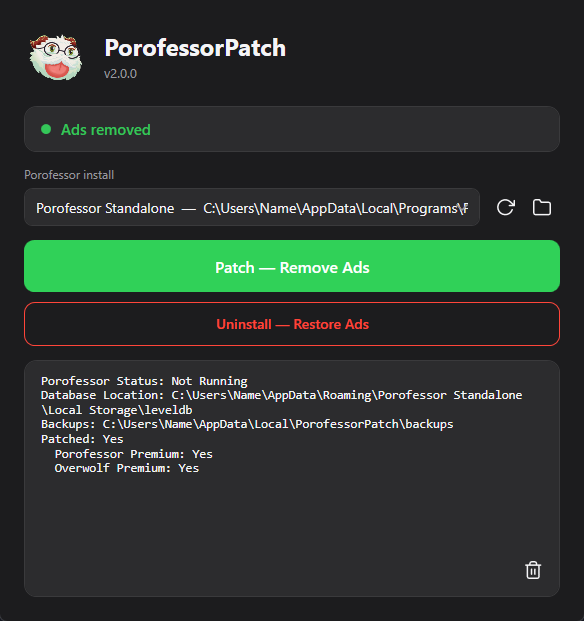
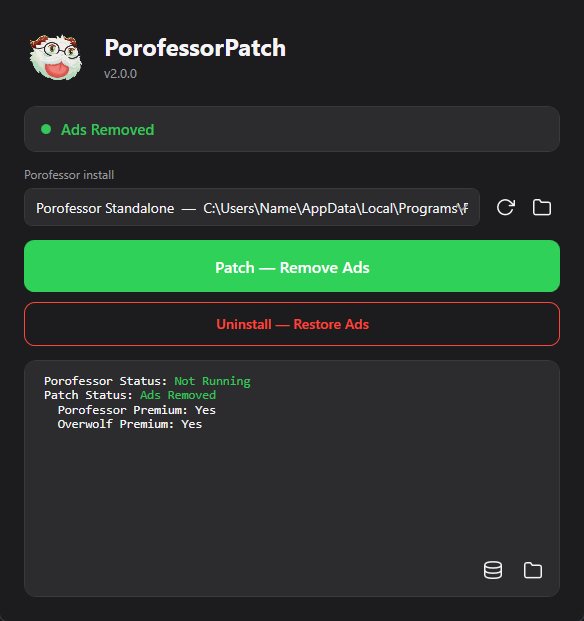
Polish status panel and add folder shortcuts
Show 'Ads Removed'/'Ads Present' and 'Unknown' while Porofessor is running; replace the database/backup text with open-folder buttons; store backups beside the executable; document the .NET Framework 4.8 runtime requirement.

diff --git a/src/PorofessorPatch/MainWindow.xaml b/src/PorofessorPatch/MainWindow.xaml
@@ -15,7 +15,7 @@
         <!-- Feather-style icon geometries (24x24 stroke icons) -->
         <Geometry x:Key="RefreshGeometry">M 23 4 L 23 10 L 17 10 M 20.49 15 A 9 9 0 1 1 18.37 5.64 L 23 10</Geometry>
         <Geometry x:Key="FolderGeometry">M 22 19 A 2 2 0 0 1 20 21 H 4 A 2 2 0 0 1 2 19 V 5 A 2 2 0 0 1 4 3 H 9 L 11 6 H 20 A 2 2 0 0 1 22 8 Z</Geometry>
-        <Geometry x:Key="TrashGeometry">M 3 6 L 5 6 L 21 6 M 19 6 V 20 A 2 2 0 0 1 17 22 H 7 A 2 2 0 0 1 5 20 V 6 M 8 6 V 4 A 2 2 0 0 1 10 2 H 14 A 2 2 0 0 1 16 4 V 6 M 10 11 L 10 17 M 14 11 L 14 17</Geometry>
+        <Geometry x:Key="DatabaseGeometry">M 4 7 C 4 5 7 4 12 4 C 17 4 20 5 20 7 L 20 17 C 20 19 17 20 12 20 C 7 20 4 19 4 17 Z M 4 7 C 4 9 7 10 12 10 C 17 10 20 9 20 7 M 4 12 C 4 14 7 15 12 15 C 17 15 20 14 20 12</Geometry>
         <Geometry x:Key="ChevronGeometry">M 6 9 L 12 15 L 18 9</Geometry>
 
         <!-- Primary action (solid accent) -->
@@ -266,20 +266,28 @@
                     Content="Uninstall — Restore Ads" Click="Restore_Click" />
         </StackPanel>
 
-        <!-- Log / details -->
+        <!-- Status / details -->
         <Border Grid.Row="4" Background="{DynamicResource CardBg}" BorderBrush="{DynamicResource CardBorder}"
                 BorderThickness="1" CornerRadius="12">
             <Grid>
-                <TextBox x:Name="LogBox" IsReadOnly="True" TextWrapping="Wrap" VerticalScrollBarVisibility="Auto"
-                         Background="Transparent" BorderThickness="0" FontFamily="Consolas" FontSize="12.5"
-                         Foreground="{DynamicResource TextPrimary}" Padding="14,12,14,44" />
-                <Button x:Name="ClearButton" Style="{StaticResource IconButton}"
-                        ToolTip="Clear logs" HorizontalAlignment="Right" VerticalAlignment="Bottom"
-                        Margin="0,0,8,8" Click="ClearLogs_Click">
-                    <Path Data="{StaticResource TrashGeometry}" Width="18" Height="18" Stretch="Uniform"
-                          Stroke="{Binding Foreground, RelativeSource={RelativeSource AncestorType=Button}}"
-                          StrokeThickness="1.5" StrokeStartLineCap="Round" StrokeEndLineCap="Round" StrokeLineJoin="Round" />
-                </Button>
+                <RichTextBox x:Name="LogBox" IsReadOnly="True" VerticalScrollBarVisibility="Auto"
+                             Background="Transparent" BorderThickness="0"
+                             Foreground="{DynamicResource TextPrimary}" Padding="14,12,14,44" />
+                <StackPanel Orientation="Horizontal" HorizontalAlignment="Right" VerticalAlignment="Bottom"
+                            Margin="0,0,8,8">
+                    <Button x:Name="OpenDatabaseButton" Style="{StaticResource IconButton}"
+                            ToolTip="Open database location" Click="OpenDatabase_Click" Margin="0,0,4,0">
+                        <Path Data="{StaticResource DatabaseGeometry}" Width="18" Height="18" Stretch="Uniform"
+                              Stroke="{Binding Foreground, RelativeSource={RelativeSource AncestorType=Button}}"
+                              StrokeThickness="1.5" StrokeStartLineCap="Round" StrokeEndLineCap="Round" StrokeLineJoin="Round" />
+                    </Button>
+                    <Button x:Name="OpenBackupsButton" Style="{StaticResource IconButton}"
+                            ToolTip="Open backups folder" Click="OpenBackups_Click">
+                        <Path Data="{StaticResource FolderGeometry}" Width="18" Height="18" Stretch="Uniform"
+                              Stroke="{Binding Foreground, RelativeSource={RelativeSource AncestorType=Button}}"
+                              StrokeThickness="1.5" StrokeStartLineCap="Round" StrokeEndLineCap="Round" StrokeLineJoin="Round" />
+                    </Button>
+                </StackPanel>
             </Grid>
         </Border>
     </Grid>

diff --git a/src/PorofessorPatch/MainWindow.xaml.cs b/src/PorofessorPatch/MainWindow.xaml.cs
@@ -1,8 +1,10 @@
 using System;
 using System.Collections.Generic;
+using System.Diagnostics;
 using System.IO;
 using System.Linq;
 using System.Windows;
+using System.Windows.Documents;
 using System.Windows.Input;
 using System.Windows.Media;
 using System.Windows.Media.Imaging;
@@ -14,8 +16,8 @@ namespace PorofessorPatch
     {
         private readonly List<Install> _installs = new List<Install>();
         private bool _dark;
-        private string _actionLog = string.Empty;
-        private string _statusSummary = string.Empty;
+        private CheckResult _lastCheck;
+        private string _lastBackup;
 
         private static readonly Color Green = (Color)ColorConverter.ConvertFromString("#34C759");
         private static readonly Color Amber = (Color)ColorConverter.ConvertFromString("#FF9F0A");
@@ -63,6 +65,7 @@ namespace PorofessorPatch
             {
                 Source = new Uri("pack://application:,,,/Themes/" + (_dark ? "Dark" : "Light") + ".xaml"),
             });
+            RenderStatus();
         }
 
         private void RefreshInstalls()
@@ -75,9 +78,8 @@ namespace PorofessorPatch
                 InstallList.ItemsSource = _installs;
                 if (_installs.Count > 0) InstallList.SelectedIndex = 0;
             }
-            catch (Exception ex)
+            catch
             {
-                AppendLog("error = " + ex.Message);
             }
         }
 
@@ -88,51 +90,96 @@ namespace PorofessorPatch
             StatusDot.Fill = new SolidColorBrush(color);
         }
 
-        private void AppendLog(string text)
-        {
-            _actionLog += text + Environment.NewLine;
-            RenderLog();
-        }
-
         private void RefreshStatus()
         {
-            CheckResult r;
             try
             {
-                r = PatchEngine.Check();
+                _lastCheck = PatchEngine.Check();
             }
-            catch (Exception ex)
+            catch
             {
-                r = new CheckResult { Running = PatchEngine.IsAppRunning(), StorageDir = Paths.StorageDir };
-                AppendLog("error = " + ex.Message);
+                _lastCheck = new CheckResult
+                {
+                    Running = PatchEngine.IsAppRunning(),
+                    StorageDir = Paths.StorageDir,
+                };
             }
 
-            if (r.Running)
+            if (_lastCheck.Running)
                 SetStatus("Porofessor is running — close it to patch", Amber);
-            else if (!r.StorageExists)
+            else if (!_lastCheck.StorageExists)
                 SetStatus("No data yet — launch Porofessor once", Amber);
-            else if (r.AdsRemoved)
-                SetStatus("Ads removed", Green);
+            else if (_lastCheck.AdsRemoved)
+                SetStatus("Ads Removed", Green);
             else
-                SetStatus("Ads present", Red);
+                SetStatus("Ads Present", Red);
 
-            _statusSummary =
-                "Porofessor Status: " + (r.Running ? "Running" : "Not Running") + Environment.NewLine +
-                "Database Location: " + r.StorageDir + Environment.NewLine +
-                "Backups: " + Paths.BackupsRoot + Environment.NewLine +
-                "Patched: " + (r.AdsRemoved ? "Yes" : "No") + Environment.NewLine +
-                "  Porofessor Premium: " + (r.PorofessorPremium ? "Yes" : "No") + Environment.NewLine +
-                "  Overwolf Premium: " + (r.OverwolfPremium ? "Yes" : "No");
-
-            RenderLog();
+            RenderStatus();
         }
 
-        private void RenderLog()
+        private void RenderStatus()
         {
-            LogBox.Text = string.IsNullOrEmpty(_actionLog)
-                ? _statusSummary
-                : _actionLog + Environment.NewLine + _statusSummary;
-            LogBox.ScrollToEnd();
+            var r = _lastCheck;
+            var doc = new FlowDocument
+            {
+                FontFamily = new FontFamily("Consolas"),
+                FontSize = 12.5,
+                PagePadding = new Thickness(0),
+            };
+
+            AddLine(doc, "Porofessor Status: ", r.Running ? "Running" : "Not Running",
+                new SolidColorBrush(r.Running ? Amber : Green));
+
+            if (r.Running)
+            {
+                AddLine(doc, "Patch Status: ", "Unknown", new SolidColorBrush(Amber));
+                AddLine(doc, "  Porofessor Premium: ", "Unknown", new SolidColorBrush(Amber));
+                AddLine(doc, "  Overwolf Premium: ", "Unknown", new SolidColorBrush(Amber));
+            }
+            else
+            {
+                AddLine(doc, "Patch Status: ", r.AdsRemoved ? "Ads Removed" : "Ads Present",
+                    new SolidColorBrush(r.AdsRemoved ? Green : Red));
+                AddLine(doc, "  Porofessor Premium: ", r.PorofessorPremium ? "Yes" : "No", null);
+                AddLine(doc, "  Overwolf Premium: ", r.OverwolfPremium ? "Yes" : "No", null);
+            }
+
+            LogBox.Document = doc;
+        }
+
+        private static void AddLine(FlowDocument doc, string label, string value, Brush valueBrush)
+        {
+            var p = new Paragraph { Margin = new Thickness(0) };
+            p.Inlines.Add(new Run(label));
+            var run = new Run(value);
+            if (valueBrush != null) run.Foreground = valueBrush;
+            p.Inlines.Add(run);
+            doc.Blocks.Add(p);
+        }
+
+        private static void OpenFolder(string path)
+        {
+            Process.Start(new ProcessStartInfo
+            {
+                FileName = path,
+                UseShellExecute = true,
+            });
+        }
+
+        private void OpenDatabase_Click(object sender, RoutedEventArgs e)
+        {
+            if (Directory.Exists(Paths.StorageDir))
+                OpenFolder(Paths.StorageDir);
+            else
+                MessageBox.Show(this, "Porofessor's storage isn't created yet — launch Porofessor once.",
+                    AppInfo.Name, MessageBoxButton.OK, MessageBoxImage.Information);
+        }
+
+        private void OpenBackups_Click(object sender, RoutedEventArgs e)
+        {
+            var dir = string.IsNullOrEmpty(_lastBackup) ? Paths.BackupsRoot : _lastBackup;
+            if (!Directory.Exists(dir)) Directory.CreateDirectory(dir);
+            OpenFolder(dir);
         }
 
         private void Patch_Click(object sender, RoutedEventArgs e)
@@ -150,14 +197,11 @@ namespace PorofessorPatch
             try
             {
                 var r = action();
-                AppendLog(r.Message);
-                foreach (var line in r.Written) AppendLog("  " + line);
-                if (!string.IsNullOrEmpty(r.BackupPath)) AppendLog("backup = " + r.BackupPath);
+                if (!string.IsNullOrEmpty(r.BackupPath)) _lastBackup = r.BackupPath;
                 RefreshStatus();
             }
             catch (Exception ex)
             {
-                AppendLog("error = " + ex.Message);
                 MessageBox.Show(this, ex.Message, AppInfo.Name, MessageBoxButton.OK, MessageBoxImage.Warning);
             }
         }
@@ -185,12 +229,6 @@ namespace PorofessorPatch
             InstallList.ItemsSource = _installs;
             InstallList.SelectedIndex = 0;
             RefreshStatus();
-        }
-
-        private void ClearLogs_Click(object sender, RoutedEventArgs e)
-        {
-            _actionLog = string.Empty;
-            RenderLog();
         }
     }
 }

diff --git a/src/PorofessorPatch/Core/Paths.cs b/src/PorofessorPatch/Core/Paths.cs
@@ -27,10 +27,7 @@ namespace PorofessorPatch.Core
             }
         }
 
-        public static string BackupsRoot => Path.Combine(
-            Environment.GetFolderPath(Environment.SpecialFolder.LocalApplicationData),
-            "PorofessorPatch",
-            "backups");
+        public static string BackupsRoot => Path.Combine(AppDomain.CurrentDomain.BaseDirectory, "backups");
 
         public static string MakeBackupDir()
         {

diff --git a/README.md b/README.md
@@ -23,6 +23,13 @@ buttons:
 
 Click the Porofessor mascot to switch between light and dark mode.
 
+## Requirements
+
+The app is a single .NET Framework 4.8 executable. That runtime is preinstalled
+on Windows 10 (version 1903 and newer) and Windows 11, so no extra install is
+needed there. On older Windows versions, install the
+[.NET Framework 4.8 runtime](https://dotnet.microsoft.com/download/dotnet-framework/net48).
+
 ## Building from source
 
 Requires the .NET SDK (8.0 or newer):
